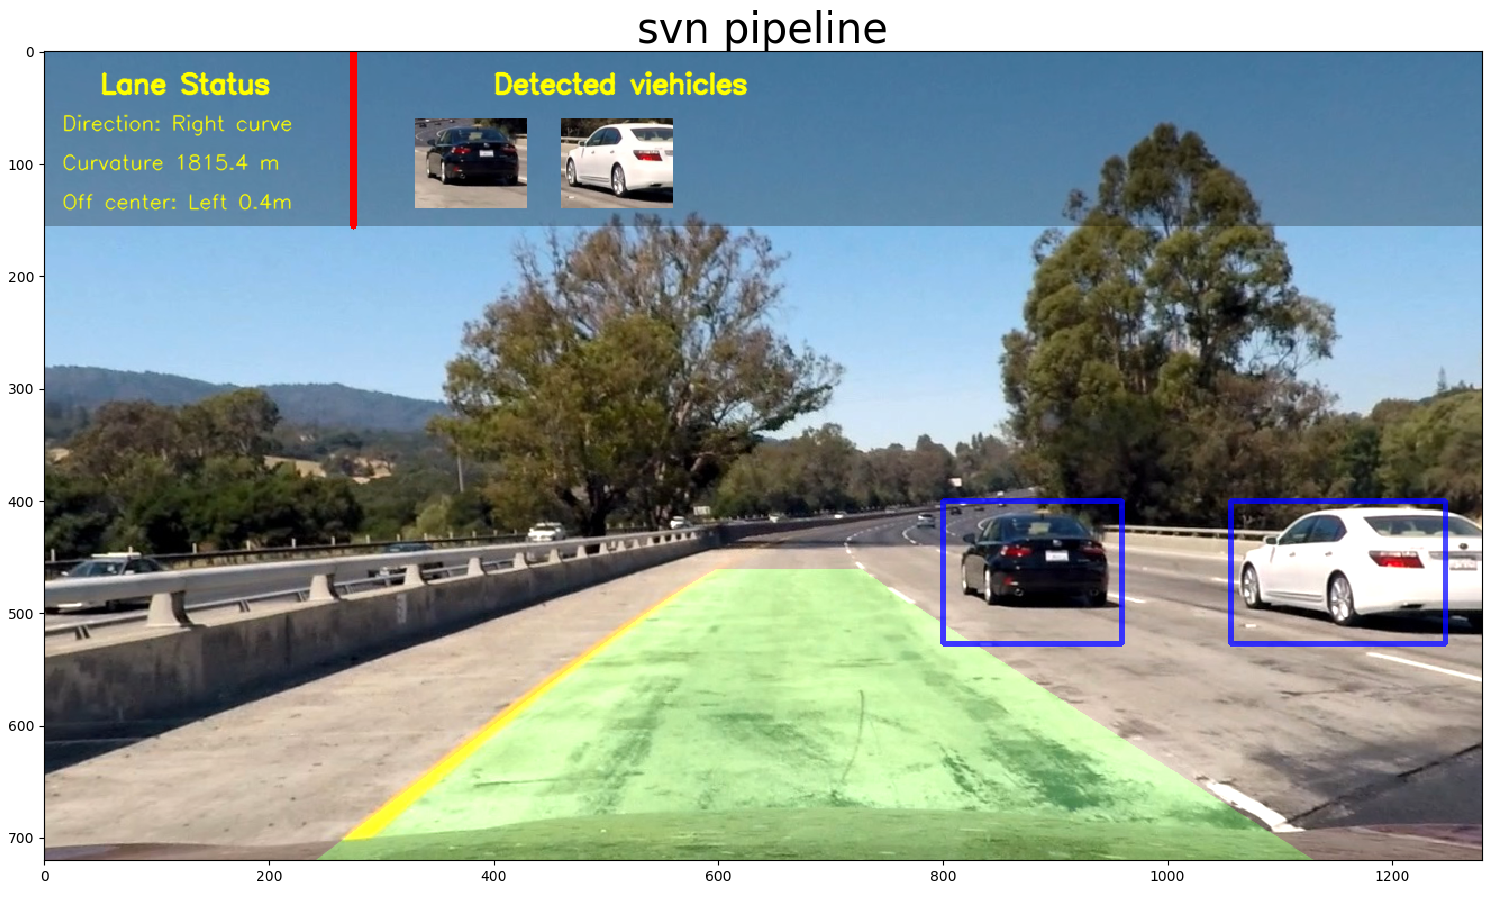
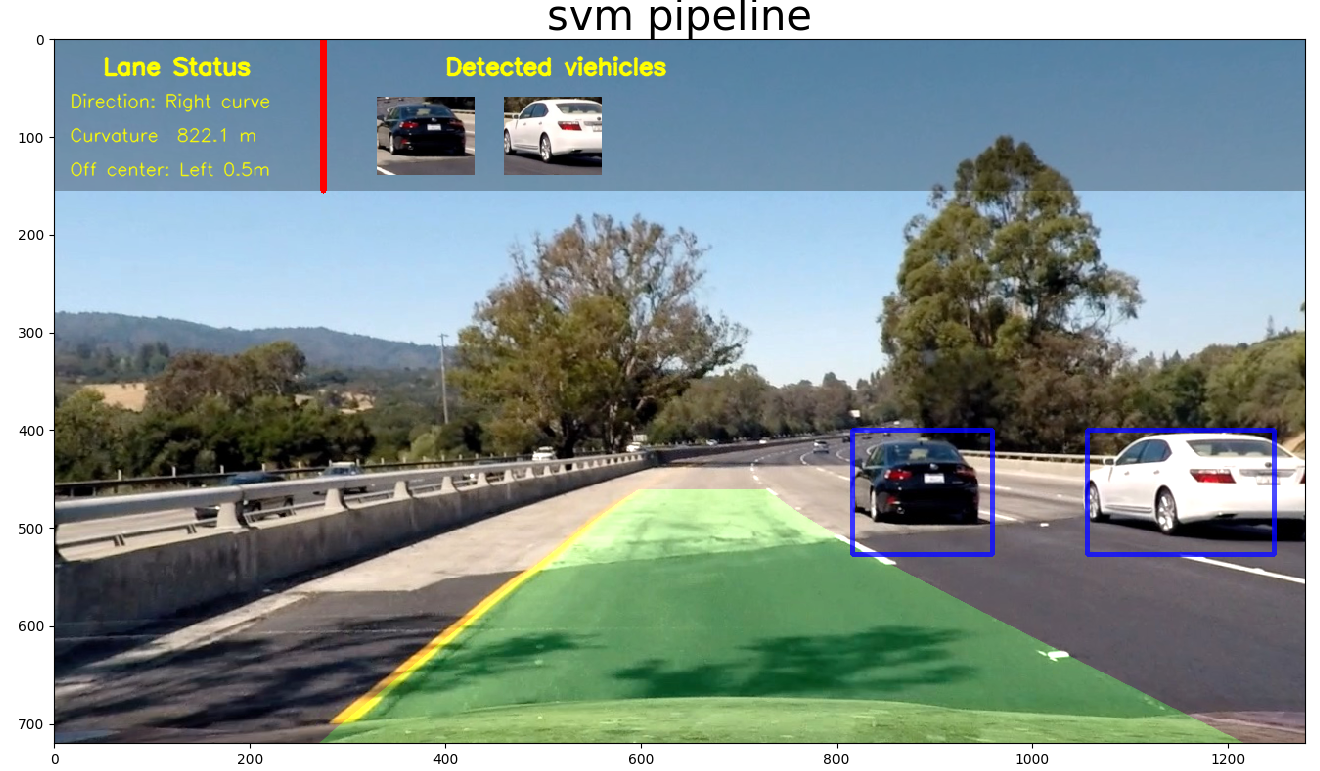
fix: Two bugs fix
Convert float to int for index usage in lane.py.

diff --git a/lane.py b/lane.py
@@ -221,7 +221,7 @@ def warper(img, M):
 ## fit the lane line
 def full_search(binary_warped, visualization=False):
 
-    histogram = np.sum(binary_warped[binary_warped.shape[0]/2:,:], axis=0)
+    histogram = np.sum(binary_warped[binary_warped.shape[0]//2:,:], axis=0)
     # Create an output image to draw on and  visualize the result
     out_img = np.dstack((binary_warped, binary_warped, binary_warped))*255
     out_img = out_img.astype('uint8')
@@ -462,7 +462,7 @@ def create_output_frame(offcenter, pts, undist_ori, fps, curvature, curve_direct
     color_warp = np.zeros_like(undist_ori).astype(np.uint8)
 
     # create a frame to hold every image
-    whole_frame = np.zeros((h*2.5,w*2.34, 3), dtype=np.uint8)
+    whole_frame = np.zeros((int(h*2.5), int(w*2.34), 3), dtype=np.uint8)
 
 
     if abs(offcenter) > threshold:  # car is offcenter more than 0.6 m

diff --git a/main.py b/main.py
@@ -1,5 +1,5 @@
 from moviepy.editor import VideoFileClip
-from svn_pipeline import *
+from svm_pipeline import *
 from yolo_pipeline import *
 from lane import *
 
@@ -21,7 +21,7 @@ def pipeline_svm(img):
 
 if __name__ == "__main__":
 
-    demo = 3  # 1:image (YOLO and SVN), 2: video (YOLO Pipeline), 3: video (SVN pipeline)
+    demo = 1  # 1:image (YOLO and SVM), 2: video (YOLO Pipeline), 3: video (SVM pipeline)
 
     if demo == 1:
         filename = 'examples/test4.jpg'
@@ -49,7 +49,7 @@ if __name__ == "__main__":
 
     else:
         # SVM pipeline
-        video_output = 'examples/project_svn.mp4'
+        video_output = 'examples/project_svm.mp4'
         clip1 = VideoFileClip("examples/project_video.mp4").subclip(30,32)
         clip = clip1.fl_image(pipeline_svm)
         clip.write_videofile(video_output, audio=False)
